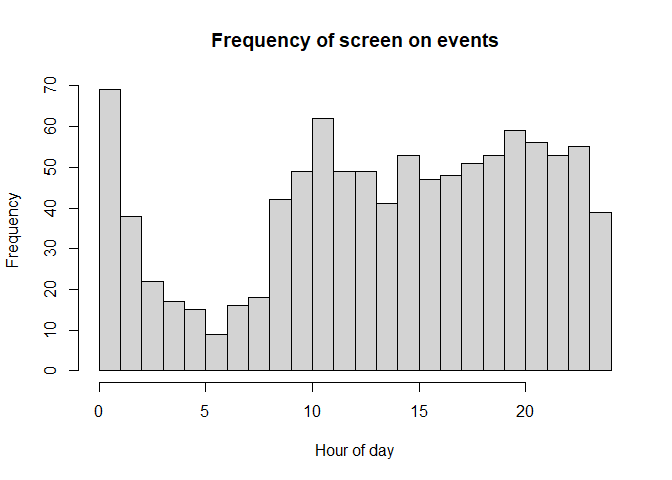
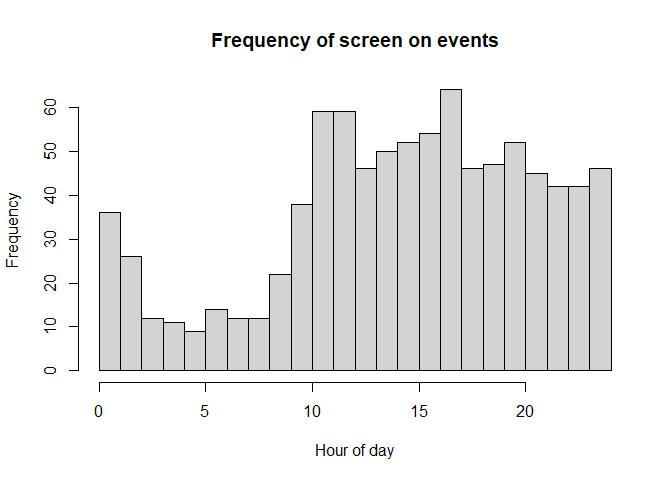
Bug fix: a) 0/1 matrix dimension issue, b) negative sd parameter estimates

diff --git a/README.md b/README.md
@@ -139,36 +139,36 @@ head(outmat_orig)
 ```
 
     ##                    t0                  t1
-    ## 1 03/02/2019 15:00:00 03/02/2019 15:06:34
-    ## 2 03/02/2019 15:06:34 03/02/2019 15:06:56
-    ## 3 03/02/2019 15:06:56 03/02/2019 15:12:54
-    ## 4 03/02/2019 15:12:54 03/02/2019 15:22:46
-    ## 5 03/02/2019 15:22:46 03/02/2019 15:24:00
-    ## 6 03/02/2019 15:24:00 03/02/2019 15:36:34
+    ## 1 03/02/2019 15:00:00 03/02/2019 15:08:18
+    ## 2 03/02/2019 15:08:18 03/02/2019 15:26:08
+    ## 3 03/02/2019 15:26:08 03/02/2019 15:37:13
+    ## 4 03/02/2019 15:37:13 03/02/2019 15:41:12
+    ## 5 03/02/2019 15:41:12 03/02/2019 15:57:21
+    ## 6 03/02/2019 15:57:21 03/02/2019 16:01:21
 
 ``` r
 head(outmat_mod)
 ```
 
     ##          [,1]     [,2] [,3]
-    ## [1,] 15.00000 15.10946    1
-    ## [2,] 15.10946 15.11576    1
-    ## [3,] 15.11576 15.21511    1
-    ## [4,] 15.21511 15.37955    1
-    ## [5,] 15.37955 15.40023    1
-    ## [6,] 15.40023 15.60945    1
+    ## [1,] 15.00000 15.13845    1
+    ## [2,] 15.13845 15.43580    1
+    ## [3,] 15.43580 15.62044    1
+    ## [4,] 15.62044 15.68678    1
+    ## [5,] 15.68678 15.95597    1
+    ## [6,] 15.95597 16.02259    1
 
 ``` r
 head(compare_to_outmat_mod)
 ```
 
     ##          [,1]     [,2] [,3]
-    ## [1,] 15.00000 15.10944    1
-    ## [2,] 15.10944 15.11556    1
-    ## [3,] 15.11556 15.21500    1
-    ## [4,] 15.21500 15.37944    1
-    ## [5,] 15.37944 15.40000    1
-    ## [6,] 15.40000 15.60944    1
+    ## [1,] 15.00000 15.13833    1
+    ## [2,] 15.13833 15.43556    1
+    ## [3,] 15.43556 15.62028    1
+    ## [4,] 15.62028 15.68667    1
+    ## [5,] 15.68667 15.95583    1
+    ## [6,] 15.95583 16.02250    1
 
 To see what the resulting data looks like:
 
@@ -237,6 +237,10 @@ d_w_cond_x = function(t_init,wt,xs,xw,lambda_s,lambda_w,mu_s,mu_w){
 
 #par order : lambda_s,lambda_w,mu_s,mu_w,sd_s,sd_w
 QuadratureIntegral = function(mat,cpar,d){
+  if(is.null(mat) || is.na(mat)){return(1)}
+  if(is.numeric(mat)){
+    mat=matrix(mat,nrow=1)
+  }
   n_i=nrow(mat)
   quad_out=trap_quad_points(d)
   lik_wcondx = matrix(NA,nrow=d^2,ncol=n_i)
@@ -252,6 +256,9 @@ QuadratureIntegral = function(mat,cpar,d){
 
 #par order : lambda_s,lambda_w,mu_s,mu_w,sd_s,sd_w
 LogLikelihood =function(dat,cpar,d){
+  if(cpar[5]<=0 || cpar[6]<=0 || mu_w<=mu_s || lambda_s < 0 || lambda_w <0){
+    return(-Inf)
+  }
   labels=unique(dat[,3])
   ls_ids = list()
   for(i in 1:length(labels)){
@@ -395,10 +402,10 @@ cat(paste(" Avg. time to sleep = ",sleep_t," (+/- ",round(mle.out[5],1)," hour)\
 ,(paste("Rate (per hour) of frequency of phone use while awake = ", round(mle.out[2],5),"\n",sep="")))
 ```
 
-    ##  Avg. time to sleep = 2:11 (+/- 0.7 hour)
-    ##  Avg. time to wake  = 9:11 (+/- 1.1 hour)
-    ##  Rate (per hour) of frequency of phone use while asleep = 2.03841
-    ##  Rate (per hour) of frequency of phone use while awake = 5.13881
+    ##  Avg. time to sleep = 1:38 (+/- 1.2 hour)
+    ##  Avg. time to wake  = 9:38 (+/- 1.2 hour)
+    ##  Rate (per hour) of frequency of phone use while asleep = 1.85695
+    ##  Rate (per hour) of frequency of phone use while awake = 6.25784
 
 ### Estimating bed times and wake up times for each day
 
@@ -435,13 +442,13 @@ xest_orig
 ```
 
     ##                bedtime        wake-up time
-    ## 1  03/03/2019 02:19:30 03/03/2019 08:19:05
-    ## 2  03/04/2019 02:41:41 03/04/2019 09:58:43
-    ## 3  03/05/2019 02:27:24 03/05/2019 09:12:13
-    ## 4  03/06/2019 02:46:43 03/06/2019 09:54:30
-    ## 5  03/07/2019 02:33:08 03/07/2019 09:38:47
-    ## 6  03/08/2019 02:10:28 03/08/2019 09:16:08
-    ## 7  03/09/2019 02:16:07 03/09/2019 08:27:13
-    ## 8  03/10/2019 02:36:16 03/10/2019 09:01:55
-    ## 9  03/11/2019 02:30:15 03/11/2019 09:23:05
-    ## 10 03/12/2019 02:20:18 03/12/2019 08:23:15
+    ## 1  03/03/2019 01:25:23 03/03/2019 08:28:27
+    ## 2  03/04/2019 00:24:09 03/04/2019 08:46:00
+    ## 3  03/05/2019 02:54:54 03/05/2019 10:17:53
+    ## 4  03/06/2019 01:30:18 03/06/2019 08:26:11
+    ## 5  03/07/2019 01:18:00 03/07/2019 10:15:10
+    ## 6  03/08/2019 01:51:41 03/08/2019 09:06:40
+    ## 7  03/09/2019 02:09:20 03/09/2019 10:28:38
+    ## 8  03/10/2019 02:34:35 03/10/2019 10:23:01
+    ## 9  03/11/2019 02:24:06 03/11/2019 10:00:56
+    ## 10 03/12/2019 01:24:49 03/12/2019 09:02:36
